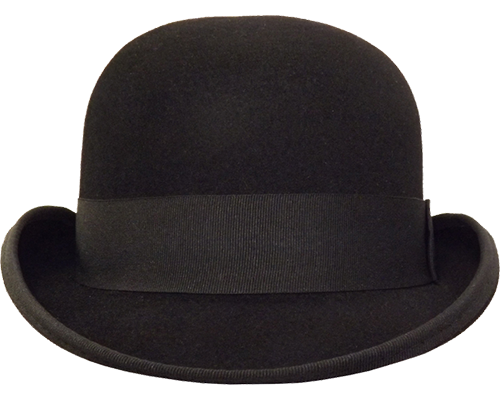
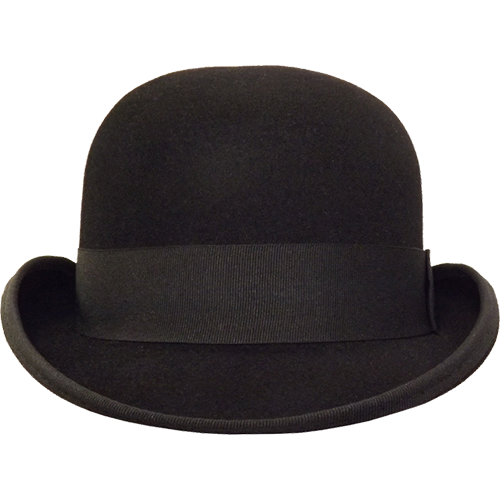
Add a bunch of new accessories

diff --git a/src/components/Video.vue b/src/components/Video.vue
@@ -4,6 +4,12 @@
     <canvas class="canvas" width="500" height="400" ref="canvas"></canvas>
     <img src="../assets/top-hat.png" alt="" ref="topHat" class="accessory">
     <img src="../assets/bowler-hat.png" alt="" ref="bowlerHat" class="accessory">
+    <img src="../assets/handlebar-mustache.png" alt="" ref="handlebarMustache" class="accessory">
+    <img src="../assets/toothbrush-mustache.png" alt="" ref="toothbrushMustache" class="accessory">
+    <img src="../assets/dali-mustache.png" alt="" ref="daliMustache" class="accessory">
+    <img src="../assets/monocle.png" alt="" ref="monocle" class="accessory">
+    <img src="../assets/smoking-pipe.png" alt="" ref="smokingPipe" class="accessory">
+    <img src="../assets/che-beret.png" alt="" ref="cheBeret" class="accessory">
   </div>
 </template>
 
@@ -18,36 +24,77 @@
   export default {
     name: 'Video',
     props: ['filter', 'accessories'],
+
     data() {
       return {
         topHat: {
           filterX: 0,
-          filterY: -0.8,
+          filterY: -0.7,
           filterWidth: 1,
           filterHeight: 1,
         },
         bowlerHat: {
           filterX: 0,
-          filterY: -0.8,
+          filterY: -0.65,
+          filterWidth: 1,
+          filterHeight: 1,
+        },
+        handlebarMustache: {
+          filterX: 0.27,
+          filterY: 0.48,
+          filterWidth: 0.5,
+          filterHeight: 0.5,
+        },
+        toothbrushMustache: {
+          filterX: 0.42,
+          filterY: 0.65,
+          filterWidth: 0.2,
+          filterHeight: 0.2,
+        },
+        daliMustache: {
+          filterX: 0.23,
+          filterY: 0.4,
+          filterWidth: 0.6,
+          filterHeight: 0.6,
+        },
+        monocle: {
+          filterX: -0.15,
+          filterY: 0.3,
+          filterWidth: 0.9,
+          filterHeight: 0.9,
+        },
+        smokingPipe: {
+          filterX: 0.3,
+          filterY: 0.7,
+          filterWidth: 0.6,
+          filterHeight: 0.6,
+        },
+        cheBeret: {
+          filterX: 0,
+          filterY: -0.6,
           filterWidth: 1,
           filterHeight: 1,
         },
       };
     },
+
     mounted() {
       this.initTracking();
       this.renderAccessories(this.accessories);
     },
+
     methods: {
       initTracking() {
         canvas = this.$refs.myCanvas;
         canvas = document.querySelector('.canvas');
         context = canvas.getContext('2d');
+
         tracker.setInitialScale(4);
         tracker.setStepSize(2);
         tracker.setEdgesDensity(0.1);
         tracking.track('.video', tracker, { camera: true });
       },
+
       renderAccessories(listOfAccessories) {
         tracker.on('track', (e) => {
           if (e.data.length) {
@@ -57,7 +104,6 @@
               const accessoryData = this.$data[accessory];
               const img = new Image();
               img.src = this.$refs[accessory].src;
-
               e.data.forEach((rect) => {
                 context.drawImage(
                   img,

diff --git a/src/components/Accessories.vue b/src/components/Accessories.vue
@@ -5,6 +5,18 @@
     <label for="top-hat">Top hat</label>
     <input type="checkbox" id="bowler-hat" value="bowlerHat" @change="updateAccessories">
     <label for="bowler-hat">Bowler hat</label>
+    <input type="checkbox" id="handlebar-mustache" value="handlebarMustache" @change="updateAccessories">
+    <label for="handlebar-mustache">Handlebar mustache</label>
+    <input type="checkbox" id="toothbrush-mustache" value="toothbrushMustache" @change="updateAccessories">
+    <label for="toothbrush-mustache">Toothbrush mustache (guaranteed 0% fascist)</label>
+    <input type="checkbox" id="dali-mustache" value="daliMustache" @change="updateAccessories">
+    <label for="dali-mustache">Dali mustache</label>
+    <input type="checkbox" id="monocle" value="monocle" @change="updateAccessories">
+    <label for="monocle">Monocle</label>
+    <input type="checkbox" id="smoking-pipe" value="smokingPipe" @change="updateAccessories">
+    <label for="smoking-pipe">Smoking pipe</label>
+    <input type="checkbox" id="che-beret" value="cheBeret" @change="updateAccessories">
+    <label for="che-beret">El Che's beret</label>
   </form>
 </template>
 
